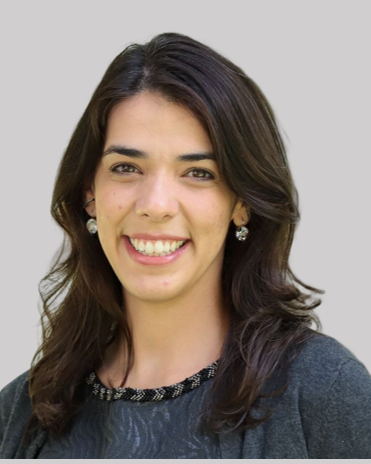
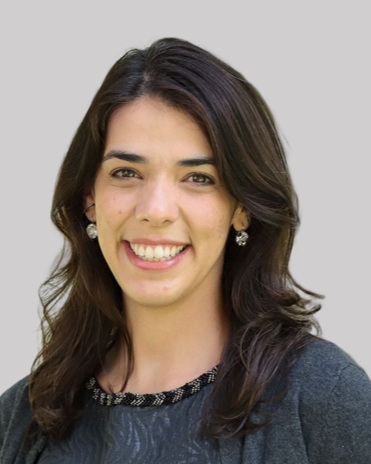
new images

diff --git a/docs/organizing-committee.html b/docs/organizing-committee.html
@@ -257,7 +257,7 @@
 				<!-- Speaker 1 -->
 				<div class="member">
 					<div class="image">
-						<img src="images/committee/Paulo Roger.jpg" alt="speaker" class="img-fluid">
+						<img src="images/committee/Paulo Roger.png" alt="speaker" class="img-fluid">
 						<div class="primary-overlay"></div>
 						<div class="socials">
 							<ul class="list-inline">
@@ -269,7 +269,7 @@
 					</div>
 					<div class="bio text-center">
 						<h5><a href="home.html">Paulo Roger</a></h5>
-						<h6>UNICAP</h6>
+						<h6>IFPE</h6>
 						<p>Finance Chair/Treasurer</p>
 					</div>
 				</div>

diff --git a/source/organizing-committee.html b/source/organizing-committee.html
@@ -122,7 +122,7 @@
 				<!-- Speaker 1 -->
 				<div class="member">
 					<div class="image">
-						<img src="images/committee/Paulo Roger.jpg" alt="speaker" class="img-fluid">
+						<img src="images/committee/Paulo Roger.png" alt="speaker" class="img-fluid">
 						<div class="primary-overlay"></div>
 						<div class="socials">
 							<ul class="list-inline">
@@ -134,7 +134,7 @@
 					</div>
 					<div class="bio text-center">
 						<h5><a href="home.html">Paulo Roger</a></h5>
-						<h6>UNICAP</h6>
+						<h6>IFPE</h6>
 						<p>Finance Chair/Treasurer</p>
 					</div>
 				</div>
